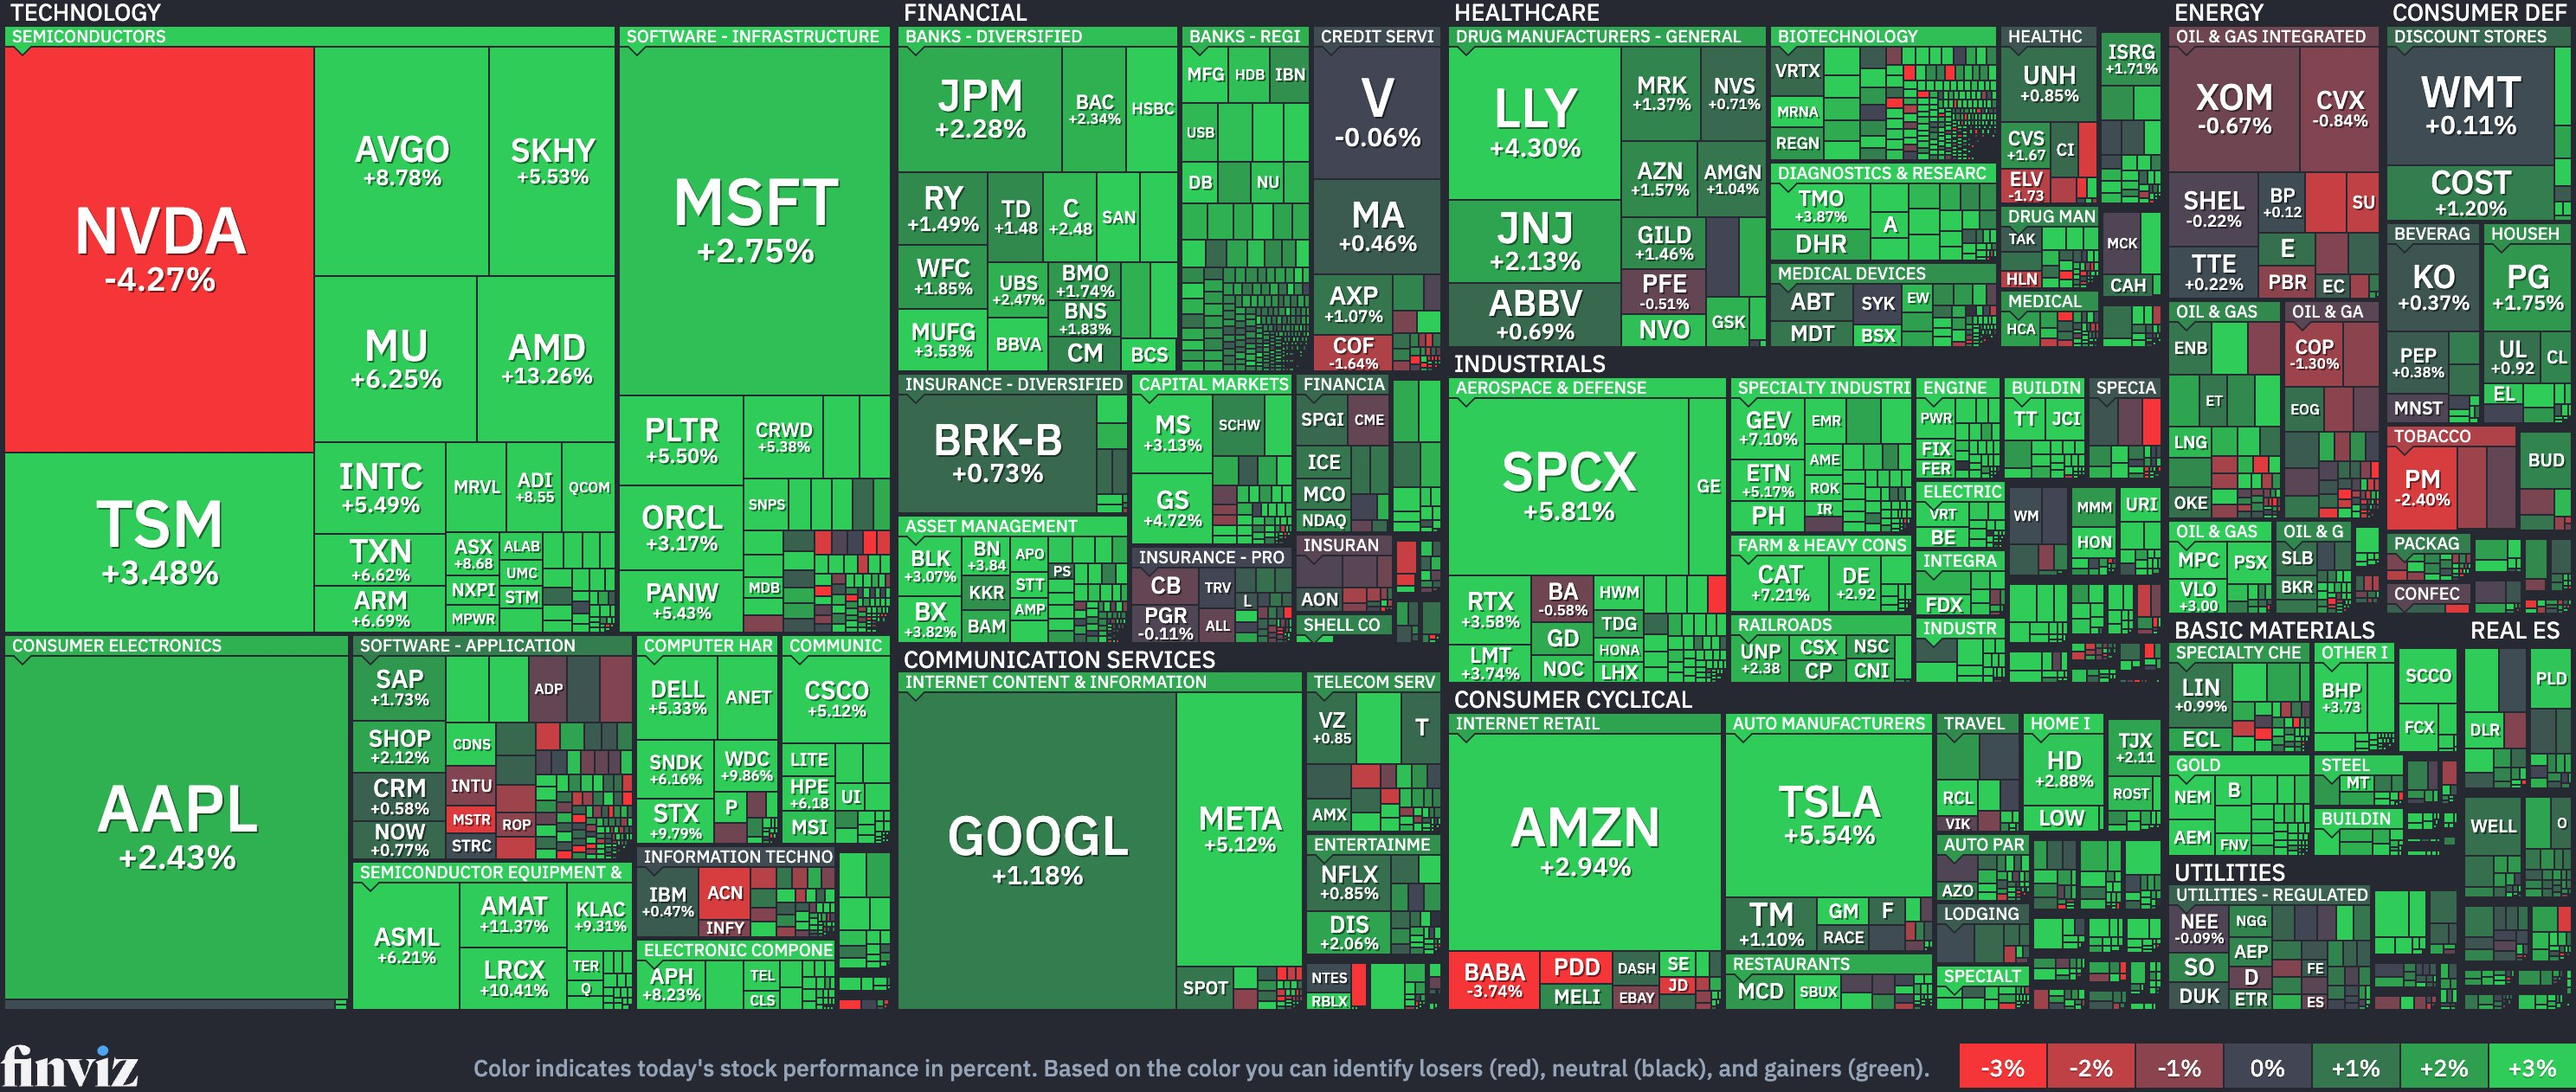
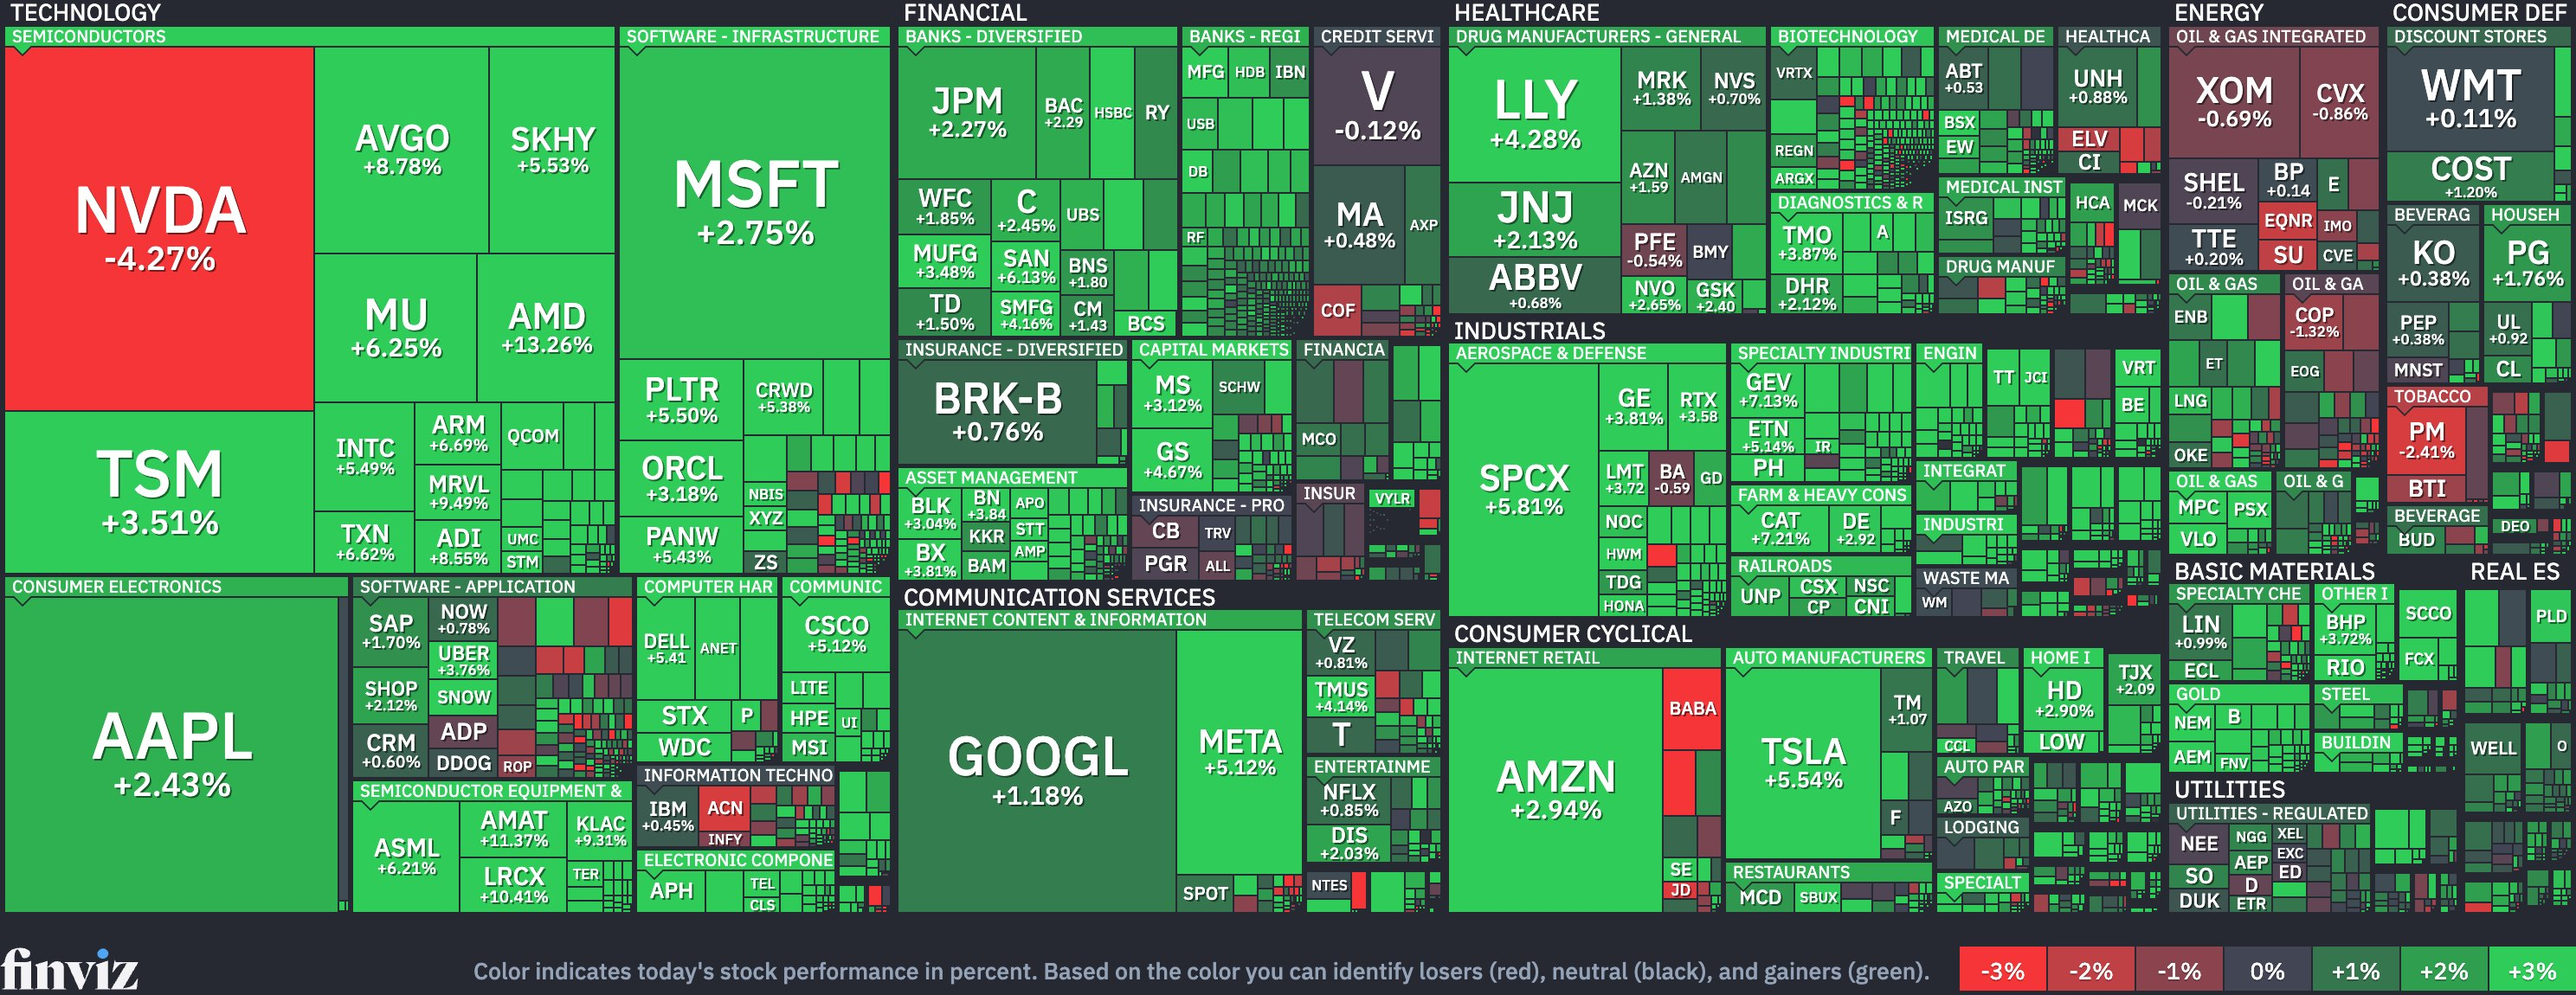
STOCK MAP 갱신 Mon NOV 09, 7:36 PM ET

diff --git a/index.html b/index.html
@@ -117,7 +117,7 @@ footer{margin-top:34px;font-size:12px;color:#7A867C;text-align:center;line-heigh
 <div class="hd"><div class="kicker">STRUCTURE &amp; BOTTLENECKS</div><h1>Report Vault</h1>
 <p>매크로·산업·기업 분석 기록을 모아 읽는 보고서 자료실.</p></div>
 <div class="board"><div class="bhd"><span class="bt">MARKET BOARD</span><span class="bu">11/10 09:36 KST 기준</span></div><div class="bgrid main"><div class="tile up"><div class="tl">DJIA</div><div class="tv">52,389.75</div><div class="tc">▲ +1,104.02<span class="tp">+2.15%</span></div><svg class="spk" viewBox="0 0 100 26" preserveAspectRatio="none" role="img" aria-label="최근 1개월 10-08→11-09 · 최저 51,231.64 · 최고 53,356.12 · +2.3%"><title>최근 1개월 10-08→11-09 · 최저 51,231.64 · 최고 53,356.12 · +2.3%</title><polygon points="0,26 0.0,24.0 4.5,19.6 9.1,17.6 13.6,19.5 18.2,20.0 22.7,14.2 27.3,16.0 31.8,16.4 36.4,10.9 40.9,7.2 45.5,7.1 50.0,13.8 54.5,12.3 59.1,12.1 63.6,11.1 68.2,12.5 72.7,18.4 77.3,16.2 81.8,18.3 86.4,2.0 90.9,21.0 95.5,23.4 100.0,12.0 100,26" fill="#1F8A5B" fill-opacity=".10"/><polyline points="0.0,24.0 4.5,19.6 9.1,17.6 13.6,19.5 18.2,20.0 22.7,14.2 27.3,16.0 31.8,16.4 36.4,10.9 40.9,7.2 45.5,7.1 50.0,13.8 54.5,12.3 59.1,12.1 63.6,11.1 68.2,12.5 72.7,18.4 77.3,16.2 81.8,18.3 86.4,2.0 90.9,21.0 95.5,23.4 100.0,12.0" fill="none" stroke="#1F8A5B" stroke-width="1.6" vector-effect="non-scaling-stroke" stroke-linejoin="round"/></svg><span class="ta">TradingView · 5:22 PM EST</span></div><div class="tile up"><div class="tl">S&amp;P 500</div><div class="tv">7,549.94</div><div class="tc">▲ +173.08<span class="tp">+2.35%</span></div><svg class="spk" viewBox="0 0 100 26" preserveAspectRatio="none" role="img" aria-label="최근 1개월 10-08→11-09 · 최저 7,353.73 · 최고 7,811.54 · -2.8%"><title>최근 1개월 10-08→11-09 · 최저 7,353.73 · 최고 7,811.54 · -2.8%</title><polygon points="0,26 0.0,4.2 4.5,2.0 9.1,2.2 13.6,2.3 18.2,6.4 22.7,5.2 27.3,9.3 31.8,7.8 36.4,6.8 40.9,4.6 45.5,9.1 50.0,11.0 54.5,8.5 59.1,6.3 63.6,5.2 68.2,6.4 72.7,13.1 77.3,15.0 81.8,13.7 86.4,7.9 90.9,24.0 95.5,22.9 100.0,14.6 100,26" fill="#C0442E" fill-opacity=".10"/><polyline points="0.0,4.2 4.5,2.0 9.1,2.2 13.6,2.3 18.2,6.4 22.7,5.2 27.3,9.3 31.8,7.8 36.4,6.8 40.9,4.6 45.5,9.1 50.0,11.0 54.5,8.5 59.1,6.3 63.6,5.2 68.2,6.4 72.7,13.1 77.3,15.0 81.8,13.7 86.4,7.9 90.9,24.0 95.5,22.9 100.0,14.6" fill="none" stroke="#C0442E" stroke-width="1.6" vector-effect="non-scaling-stroke" stroke-linejoin="round"/></svg><span class="ta">TradingView · 5:22 PM EST</span></div><div class="tile up"><div class="tl">NASDAQ</div><div class="tv">25,253.139</div><div class="tc">▲ +673.714<span class="tp">+2.74%</span></div><svg class="spk" viewBox="0 0 100 26" preserveAspectRatio="none" role="img" aria-label="최근 1개월 10-08→11-09 · 최저 24,315.00 · 최고 27,366.17 · -7.1%"><title>최근 1개월 10-08→11-09 · 최저 24,315.00 · 최고 27,366.17 · -7.1%</title><polygon points="0,26 0.0,3.2 4.5,2.0 9.1,2.9 13.6,3.2 18.2,6.9 22.7,6.7 27.3,10.8 31.8,8.7 36.4,8.8 40.9,6.8 45.5,11.8 50.0,12.2 54.5,10.6 59.1,8.4 63.6,7.9 68.2,10.5 72.7,15.9 77.3,17.9 81.8,16.4 86.4,13.8 90.9,24.0 95.5,22.1 100.0,17.2 100,26" fill="#C0442E" fill-opacity=".10"/><polyline points="0.0,3.2 4.5,2.0 9.1,2.9 13.6,3.2 18.2,6.9 22.7,6.7 27.3,10.8 31.8,8.7 36.4,8.8 40.9,6.8 45.5,11.8 50.0,12.2 54.5,10.6 59.1,8.4 63.6,7.9 68.2,10.5 72.7,15.9 77.3,17.9 81.8,16.4 86.4,13.8 90.9,24.0 95.5,22.1 100.0,17.2" fill="none" stroke="#C0442E" stroke-width="1.6" vector-effect="non-scaling-stroke" stroke-linejoin="round"/></svg><span class="ta">TradingView · 7:36 PM EST</span></div><div class="tile up"><div class="tl">RUSSELL 2000</div><div class="tv">2,840.81</div><div class="tc">▲ +86.71<span class="tp">+3.15%</span></div><svg class="spk" viewBox="0 0 100 26" preserveAspectRatio="none" role="img" aria-label="최근 1개월 10-08→11-09 · 최저 2,721.37 · 최고 2,859.22 · +1.7%"><title>최근 1개월 10-08→11-09 · 최저 2,721.37 · 최고 2,859.22 · +1.7%</title><polygon points="0,26 0.0,12.4 4.5,10.3 9.1,12.3 13.6,14.1 18.2,22.7 22.7,16.7 27.3,24.0 31.8,22.9 36.4,15.7 40.9,14.5 45.5,14.0 50.0,15.3 54.5,13.6 59.1,8.4 63.6,6.6 68.2,2.0 72.7,9.6 77.3,10.5 81.8,9.5 86.4,2.4 90.9,22.6 95.5,18.8 100.0,4.9 100,26" fill="#1F8A5B" fill-opacity=".10"/><polyline points="0.0,12.4 4.5,10.3 9.1,12.3 13.6,14.1 18.2,22.7 22.7,16.7 27.3,24.0 31.8,22.9 36.4,15.7 40.9,14.5 45.5,14.0 50.0,15.3 54.5,13.6 59.1,8.4 63.6,6.6 68.2,2.0 72.7,9.6 77.3,10.5 81.8,9.5 86.4,2.4 90.9,22.6 95.5,18.8 100.0,4.9" fill="none" stroke="#1F8A5B" stroke-width="1.6" vector-effect="non-scaling-stroke" stroke-linejoin="round"/></svg><span class="ta">TradingView · 4:04 PM EST</span></div><div class="tile flat"><div class="tl">US 10-YR</div><div class="tv">4.884%</div><div class="tc">■ +0.000</div><svg class="spk" viewBox="0 0 100 26" preserveAspectRatio="none" role="img" aria-label="최근 1개월 10-08→11-09 · 최저 4.84 · 최고 5.24 · -7.0%"><title>최근 1개월 10-08→11-09 · 최저 4.84 · 최고 5.24 · -7.0%</title><polygon points="0,26 0.0,2.7 4.5,2.0 9.1,2.2 13.6,3.5 18.2,4.9 22.7,10.4 27.3,9.9 31.8,7.8 36.4,8.9 40.9,7.3 45.5,17.7 50.0,15.8 54.5,15.9 59.1,15.6 63.6,12.8 68.2,15.8 72.7,19.0 77.3,20.9 81.8,17.8 86.4,20.9 90.9,24.0 95.5,22.8 100.0,22.5 100,26" fill="#C0442E" fill-opacity=".10"/><polyline points="0.0,2.7 4.5,2.0 9.1,2.2 13.6,3.5 18.2,4.9 22.7,10.4 27.3,9.9 31.8,7.8 36.4,8.9 40.9,7.3 45.5,17.7 50.0,15.8 54.5,15.9 59.1,15.6 63.6,12.8 68.2,15.8 72.7,19.0 77.3,20.9 81.8,17.8 86.4,20.9 90.9,24.0 95.5,22.8 100.0,22.5" fill="none" stroke="#C0442E" stroke-width="1.6" vector-effect="non-scaling-stroke" stroke-linejoin="round"/></svg><span class="ta">TradingView · 7:34 PM EST</span></div><div class="tile up"><div class="tl">US 2-YR</div><div class="tv">4.567%</div><div class="tc">▲ +0.001</div><svg class="spk" viewBox="0 0 100 26" preserveAspectRatio="none" role="img" aria-label="최근 1개월 10-08→11-06 · 최저 4.46 · 최고 4.82 · -5.1%"><title>최근 1개월 10-08→11-06 · 최저 4.46 · 최고 4.82 · -5.1%</title><polygon points="0,26 0.0,6.3 5.0,3.2 10.0,3.8 15.0,2.0 20.0,5.1 25.0,6.9 30.0,5.1 35.0,3.8 40.0,2.6 45.0,12.4 50.0,9.9 55.0,10.6 60.0,9.3 65.0,11.2 70.0,14.8 75.0,17.9 80.0,16.1 85.0,14.8 90.0,16.7 95.0,24.0 100.0,20.9 100,26" fill="#C0442E" fill-opacity=".10"/><polyline points="0.0,6.3 5.0,3.2 10.0,3.8 15.0,2.0 20.0,5.1 25.0,6.9 30.0,5.1 35.0,3.8 40.0,2.6 45.0,12.4 50.0,9.9 55.0,10.6 60.0,9.3 65.0,11.2 70.0,14.8 75.0,17.9 80.0,16.1 85.0,14.8 90.0,16.7 95.0,24.0 100.0,20.9" fill="none" stroke="#C0442E" stroke-width="1.6" vector-effect="non-scaling-stroke" stroke-linejoin="round"/></svg><span class="ta">TradingView · 7:35 PM EST</span></div><div class="tile up"><div class="tl">GOLD</div><div class="tv">4,138.90</div><div class="tc">▲ +24.40<span class="tp">+0.59%</span></div><svg class="spk" viewBox="0 0 100 26" preserveAspectRatio="none" role="img" aria-label="최근 1개월 10-08→11-09 · 최저 3,898.90 · 최고 4,216.30 · -0.5%"><title>최근 1개월 10-08→11-09 · 최저 3,898.90 · 최고 4,216.30 · -0.5%</title><polygon points="0,26 0.0,6.1 4.5,2.0 9.1,3.8 13.6,4.7 18.2,9.5 22.7,5.2 27.3,4.4 31.8,5.9 36.4,7.1 40.9,6.6 45.5,12.8 50.0,16.4 54.5,14.3 59.1,11.8 63.6,13.4 68.2,14.8 72.7,24.0 77.3,19.1 81.8,21.1 86.4,11.9 90.9,9.1 95.5,11.8 100.0,7.5 100,26" fill="#C0442E" fill-opacity=".10"/><polyline points="0.0,6.1 4.5,2.0 9.1,3.8 13.6,4.7 18.2,9.5 22.7,5.2 27.3,4.4 31.8,5.9 36.4,7.1 40.9,6.6 45.5,12.8 50.0,16.4 54.5,14.3 59.1,11.8 63.6,13.4 68.2,14.8 72.7,24.0 77.3,19.1 81.8,21.1 86.4,11.9 90.9,9.1 95.5,11.8 100.0,7.5" fill="none" stroke="#C0442E" stroke-width="1.6" vector-effect="non-scaling-stroke" stroke-linejoin="round"/></svg><span class="ta">TradingView · 7:35 PM EST</span></div><div class="tile down"><div class="tl">OIL</div><div class="tv">86.49</div><div class="tc">▼ −0.36<span class="tp">−0.41%</span></div><svg class="spk" viewBox="0 0 100 26" preserveAspectRatio="none" role="img" aria-label="최근 1개월 10-08→11-09 · 최저 86.49 · 최고 104.12 · -5.5%"><title>최근 1개월 10-08→11-09 · 최저 86.49 · 최고 104.12 · -5.5%</title><polygon points="0,26 0.0,17.8 4.5,17.3 9.1,15.0 13.6,14.5 18.2,13.3 22.7,9.7 27.3,5.4 31.8,2.6 36.4,4.9 40.9,10.7 45.5,7.8 50.0,3.1 54.5,4.9 59.1,7.3 63.6,3.7 68.2,4.6 72.7,2.0 77.3,11.6 81.8,12.0 86.4,22.0 90.9,19.0 95.5,18.6 100.0,24.0 100,26" fill="#C0442E" fill-opacity=".10"/><polyline points="0.0,17.8 4.5,17.3 9.1,15.0 13.6,14.5 18.2,13.3 22.7,9.7 27.3,5.4 31.8,2.6 36.4,4.9 40.9,10.7 45.5,7.8 50.0,3.1 54.5,4.9 59.1,7.3 63.6,3.7 68.2,4.6 72.7,2.0 77.3,11.6 81.8,12.0 86.4,22.0 90.9,19.0 95.5,18.6 100.0,24.0" fill="none" stroke="#C0442E" stroke-width="1.6" vector-effect="non-scaling-stroke" stroke-linejoin="round"/></svg><span class="ta">TradingView · 7:35 PM EST</span></div></div><div class="bgrid risk"><div class="tile up"><div class="tl">F&amp;G</div><div class="tv">32</div><div class="tc">▲ +10<span class="tg fg-f">공포</span></div><svg class="spk" viewBox="0 0 100 26" preserveAspectRatio="none" role="img" aria-label="최근 1개월 10-08→11-09 · 최저 16.69 · 최고 45.60 · -19.0%"><title>최근 1개월 10-08→11-09 · 최저 16.69 · 최고 45.60 · -19.0%</title><polygon points="0,26 0.0,6.9 4.5,3.6 9.1,2.3 13.6,2.0 18.2,14.8 22.7,12.3 27.3,22.8 31.8,21.9 36.4,14.8 40.9,13.7 45.5,21.5 50.0,24.0 54.5,14.0 59.1,11.7 63.6,10.5 68.2,13.3 72.7,16.7 77.3,21.9 81.8,18.8 86.4,10.7 90.9,21.5 95.5,18.2 100.0,12.6 100,26" fill="#C0442E" fill-opacity=".10"/><polyline points="0.0,6.9 4.5,3.6 9.1,2.3 13.6,2.0 18.2,14.8 22.7,12.3 27.3,22.8 31.8,21.9 36.4,14.8 40.9,13.7 45.5,21.5 50.0,24.0 54.5,14.0 59.1,11.7 63.6,10.5 68.2,13.3 72.7,16.7 77.3,21.9 81.8,18.8 86.4,10.7 90.9,21.5 95.5,18.2 100.0,12.6" fill="none" stroke="#C0442E" stroke-width="1.6" vector-effect="non-scaling-stroke" stroke-linejoin="round"/></svg><span class="ta">CNN · 11/9</span></div><div class="tile down"><div class="tl">VIX</div><div class="tv">19.92</div><div class="tc">▼ −5.72<span class="tp">−22.31%</span></div><svg class="spk" viewBox="0 0 100 26" preserveAspectRatio="none" role="img" aria-label="최근 1개월 10-08→11-09 · 최저 14.84 · 최고 28.18 · +29.3%"><title>최근 1개월 10-08→11-09 · 최저 14.84 · 최고 28.18 · +29.3%</title><polygon points="0,26 0.0,23.1 4.5,24.0 9.1,23.4 13.6,23.3 18.2,20.7 22.7,21.3 27.3,15.5 31.8,18.1 36.4,19.9 40.9,21.0 45.5,17.1 50.0,16.4 54.5,18.1 59.1,19.6 63.6,20.6 68.2,20.1 72.7,16.4 77.3,13.6 81.8,14.1 86.4,21.1 90.9,2.0 95.5,6.2 100.0,15.6 100,26" fill="#1F8A5B" fill-opacity=".10"/><polyline points="0.0,23.1 4.5,24.0 9.1,23.4 13.6,23.3 18.2,20.7 22.7,21.3 27.3,15.5 31.8,18.1 36.4,19.9 40.9,21.0 45.5,17.1 50.0,16.4 54.5,18.1 59.1,19.6 63.6,20.6 68.2,20.1 72.7,16.4 77.3,13.6 81.8,14.1 86.4,21.1 90.9,2.0 95.5,6.2 100.0,15.6" fill="none" stroke="#1F8A5B" stroke-width="1.6" vector-effect="non-scaling-stroke" stroke-linejoin="round"/></svg><span class="ta">TradingView · 4:29 PM EST</span></div><div class="tile down"><div class="tl">BITCOIN</div><div class="tv">74,985</div><div class="tc">▼ −282<span class="tp">−0.37%</span></div><svg class="spk" viewBox="0 0 100 26" preserveAspectRatio="none" role="img" aria-label="최근 1개월 10-08→11-10 · 최저 74,584.65 · 최고 84,011.97 · -8.2%"><title>최근 1개월 10-08→11-10 · 최저 74,584.65 · 최고 84,011.97 · -8.2%</title><polygon points="0,26 0.0,7.5 3.1,5.4 6.2,4.6 9.4,2.8 12.5,7.2 15.6,4.1 18.8,7.7 21.9,6.4 25.0,7.9 28.1,8.1 31.2,6.7 34.4,7.0 37.5,4.5 40.6,2.0 43.8,8.3 46.9,8.9 50.0,9.5 53.1,11.3 56.2,11.3 59.4,9.5 62.5,8.4 65.6,16.6 68.8,17.9 71.9,17.3 75.0,15.4 78.1,19.1 81.2,17.6 84.4,10.4 87.5,20.8 90.6,21.3 93.8,21.3 96.9,24.0 100.0,23.1 100,26" fill="#C0442E" fill-opacity=".10"/><polyline points="0.0,7.5 3.1,5.4 6.2,4.6 9.4,2.8 12.5,7.2 15.6,4.1 18.8,7.7 21.9,6.4 25.0,7.9 28.1,8.1 31.2,6.7 34.4,7.0 37.5,4.5 40.6,2.0 43.8,8.3 46.9,8.9 50.0,9.5 53.1,11.3 56.2,11.3 59.4,9.5 62.5,8.4 65.6,16.6 68.8,17.9 71.9,17.3 75.0,15.4 78.1,19.1 81.2,17.6 84.4,10.4 87.5,20.8 90.6,21.3 93.8,21.3 96.9,24.0 100.0,23.1" fill="none" stroke="#C0442E" stroke-width="1.6" vector-effect="non-scaling-stroke" stroke-linejoin="round"/></svg><span class="ta">TradingView · 7:35 PM EST</span></div><div class="tile up"><div class="tl">USD/KRW</div><div class="tv">1,344.98</div><div class="tc">▲ +4.95<span class="tp">+0.37%</span></div><svg class="spk" viewBox="0 0 100 26" preserveAspectRatio="none" role="img" aria-label="최근 1개월 10-08→11-10 · 최저 1,321.76 · 최고 1,362.70 · +0.4%"><title>최근 1개월 10-08→11-10 · 최저 1,321.76 · 최고 1,362.70 · +0.4%</title><polygon points="0,26 0.0,14.7 4.3,12.6 8.7,13.7 13.0,17.4 17.4,14.0 21.7,14.5 26.1,13.7 30.4,17.7 34.8,19.6 39.1,22.8 43.5,21.9 47.8,21.7 52.2,24.0 56.5,22.4 60.9,21.3 65.2,14.0 69.6,15.3 73.9,22.0 78.3,11.6 82.6,12.6 87.0,14.2 91.3,5.4 95.7,2.0 100.0,11.9 100,26" fill="#1F8A5B" fill-opacity=".10"/><polyline points="0.0,14.7 4.3,12.6 8.7,13.7 13.0,17.4 17.4,14.0 21.7,14.5 26.1,13.7 30.4,17.7 34.8,19.6 39.1,22.8 43.5,21.9 47.8,21.7 52.2,24.0 56.5,22.4 60.9,21.3 65.2,14.0 69.6,15.3 73.9,22.0 78.3,11.6 82.6,12.6 87.0,14.2 91.3,5.4 95.7,2.0 100.0,11.9" fill="none" stroke="#1F8A5B" stroke-width="1.6" vector-effect="non-scaling-stroke" stroke-linejoin="round"/></svg><span class="ta">TradingView · 7:35 PM EST</span></div><div class="tile up"><div class="tl">DOLLAR INDEX</div><div class="tv">101.72</div><div class="tc">▲ +0.04<span class="tp">+0.04%</span></div><svg class="spk" viewBox="0 0 100 26" preserveAspectRatio="none" role="img" aria-label="최근 1개월 10-08→11-09 · 최저 101.51 · 최고 102.58 · -0.5%"><title>최근 1개월 10-08→11-09 · 최저 101.51 · 최고 102.58 · -0.5%</title><polygon points="0,26 0.0,11.0 4.5,9.6 9.1,2.0 13.6,10.2 18.2,2.6 22.7,13.9 27.3,17.2 31.8,14.3 36.4,19.5 40.9,18.4 45.5,21.9 50.0,17.8 54.5,14.7 59.1,7.3 63.6,10.0 68.2,13.1 72.7,16.4 77.3,19.1 81.8,16.6 86.4,24.0 90.9,23.2 95.5,7.8 100.0,20.5 100,26" fill="#C0442E" fill-opacity=".10"/><polyline points="0.0,11.0 4.5,9.6 9.1,2.0 13.6,10.2 18.2,2.6 22.7,13.9 27.3,17.2 31.8,14.3 36.4,19.5 40.9,18.4 45.5,21.9 50.0,17.8 54.5,14.7 59.1,7.3 63.6,10.0 68.2,13.1 72.7,16.4 77.3,19.1 81.8,16.6 86.4,24.0 90.9,23.2 95.5,7.8 100.0,20.5" fill="none" stroke="#C0442E" stroke-width="1.6" vector-effect="non-scaling-stroke" stroke-linejoin="round"/></svg><span class="ta">TradingView · 7:33 PM EST</span></div><div class="tile up"><div class="tl">RPONTSYD</div><div class="tv">$0.003B</div><div class="tc">▲ +0.003</div><svg class="spk" viewBox="0 0 100 26" preserveAspectRatio="none" role="img" aria-label="최근 1개월 10-08→11-09 · 최저 0.00 · 최고 0.11"><title>최근 1개월 10-08→11-09 · 최저 0.00 · 최고 0.11</title><polygon points="0,26 0.0,24.0 4.8,23.8 9.5,24.0 14.3,23.8 19.0,2.0 23.8,24.0 28.6,21.8 33.3,24.0 38.1,24.0 42.9,23.8 47.6,24.0 52.4,23.6 57.1,23.8 61.9,23.6 66.7,21.8 71.4,24.0 76.2,23.6 81.0,24.0 85.7,24.0 90.5,24.0 95.2,24.0 100.0,23.4 100,26" fill="#1F8A5B" fill-opacity=".10"/><polyline points="0.0,24.0 4.8,23.8 9.5,24.0 14.3,23.8 19.0,2.0 23.8,24.0 28.6,21.8 33.3,24.0 38.1,24.0 42.9,23.8 47.6,24.0 52.4,23.6 57.1,23.8 61.9,23.6 66.7,21.8 71.4,24.0 76.2,23.6 81.0,24.0 85.7,24.0 90.5,24.0 95.2,24.0 100.0,23.4" fill="none" stroke="#1F8A5B" stroke-width="1.6" vector-effect="non-scaling-stroke" stroke-linejoin="round"/></svg><span class="ta">FRED · 11/9</span></div></div></div>
-<div class="smap"><div class="bhd"><span class="bt">STOCK MAP</span><span class="bu">finviz · Mon NOV 09, 4:01 PM ET 기준</span></div><a href="https://finviz.com/map?t=sec_all" target="_blank" rel="noopener noreferrer"><img src="stockmap/stock_map.jpg?v=1794258069" alt="S&amp;P 섹터 지도(finviz)" loading="lazy"></a></div>
+<div class="smap"><div class="bhd"><span class="bt">STOCK MAP</span><span class="bu">finviz · Mon NOV 09, 7:36 PM ET 기준</span></div><a href="https://finviz.com/map?t=sec_all" target="_blank" rel="noopener noreferrer"><img src="stockmap/stock_map.jpg?v=1794271017" alt="S&amp;P 섹터 지도(finviz)" loading="lazy"></a></div>
 <div class="launch"><div class="bhd"><span class="bt">DASHBOARDS</span></div><div class="lgrid"><a class="lbtn" href="https://gaemi-street-journal.github.io/secz-star-map/" target="_blank" rel="noopener noreferrer"><span class="li">✦</span><span class="lt"><b>SECZ 경쟁·협업 별 지도</b><small>시청자 공개판 · 생애주기 9단계 · 새 창</small></span><span class="la">→</span></a><a class="lbtn" href="reports/2026-11-10_iren-infrastructure-globe.html"><span class="li">◎</span><span class="lt"><b>IREN 데이터센터 지구본</b><small>사이트·정치 규제 반영 · 시간 탭 · 최신 11/10</small></span><span class="la">→</span></a><a class="lbtn" href="reports/iren-infrastructure.html"><span class="li">▦</span><span class="lt"><b>IREN 인프라 대시보드</b><small>부지 × 단계 색 칸 · 매일 원장에서 생성 · 고정 주소</small></span><span class="la">→</span></a><a class="lbtn" href="reports/iren-financials.html"><span class="li">▤</span><span class="lt"><b>IREN 재무 대시보드</b><small>분기 공시판 · FY26 확정 · FY27 전망 · 자금조달</small></span><span class="la">→</span></a><a class="lbtn" href="reports/2026-10-12_ai-money-flow-map.html"><span class="li">≈</span><span class="lt"><b>AI 돈의 흐름 지도</b><small>v0.3.1 · 광고주 노드 · 5층 접기 · 자금 원장 · 회수 게이지 2.0</small></span><span class="la">→</span></a><a class="lbtn" href="reports/2026-11-10_daily-brief.html"><span class="li">▤</span><span class="lt"><b>Daily-briefing</b><small>Skill-Daily 통합 보고서 · 최신 11/10</small></span><span class="la">→</span></a></div></div>
 <div class="layout">
 <aside id="nav"><button class="nav all active" data-kind="all"><span class="nm">전체</span><span class="ct">1280</span></button>
